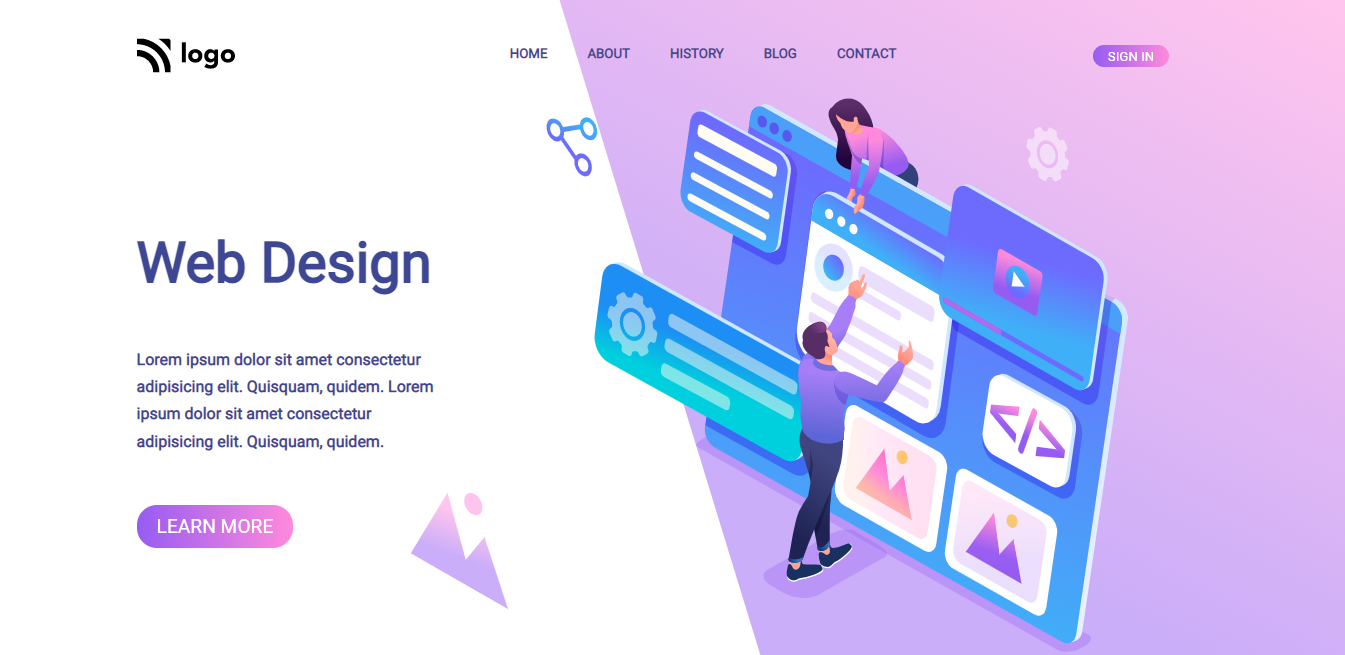
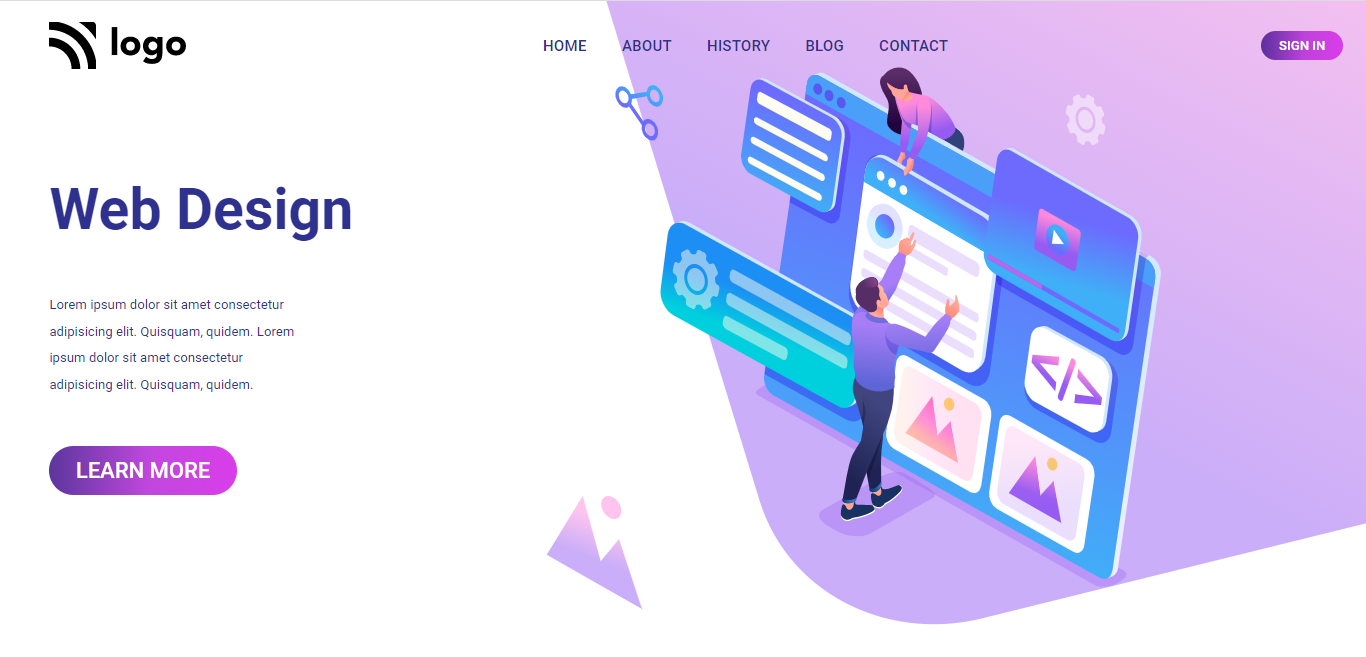
Modified

diff --git a/css/index.css b/css/index.css
@@ -1,106 +1,175 @@
-* {
-    padding: 0;
+*,
+*::before,
+*::after {
+    box-sizing: border-box;
+}
+
+body,
+h1,
+h2,
+h3,
+h4,
+h5,
+p,
+figure,
+picture {
     margin: 0;
-    font-family: 'Roboto';
+}
+
+h1,
+h2,
+h3,
+h4,
+h5,
+h6,
+p {
+    font-weight: 400;
+}
+
+html {
+    font-size: 62.5%;
 }
 
 body {
-    overflow: hidden;
+    font-family: "Roboto", sans-serif;
+    background-image: url(../images/backcover.svg);
+    background-repeat: no-repeat;
+    background-position: 100% 60%;
+    background-size: 60%;
+}
+
+.main-div {
+    max-width: 120rem;
+    margin: 0 auto;
 }
 
 .navbar {
     display: flex;
-    justify-content: space-evenly;
+    justify-content: space-between;
+    align-items: center;
+    padding-top: 1.8rem;
+    padding-left: 2.4rem;
 }
 
 .logo {
-    position: absolute;
-    left: 10%;
-    top: 6%;
+    width: 12.4rem;
 }
 
 .nav-items {
     display: flex;
-    position: absolute;
-    top: 7%;
-    color: #3e4794;
+    gap: 3.2rem;
+    list-style: none;
 }
 
-.nav-item {
-    margin-left: 40px;
+.nav-items a {
+    font-family: "Roboto", sans-serif;
+    font-size: 1.4rem;
+    font-weight: 500;
+    color: #2e318d;
+    text-decoration: none;
 }
 
 .signin-btn {
-    position: absolute;
-    padding: 3px 15px;
-    border-radius: 20px;
-    color: #fff;
     border: none;
-    top: 7%;
-    left: 80%;
-    background-image: linear-gradient(270deg, #ff8adc, #965cf2);
+    cursor: pointer;
+    background: linear-gradient( 90deg, rgba(109, 102, 226, 1) 0%, rgba(75, 34, 147, 0.9108018207282913) 0%, rgba(186, 54, 218, 0.9136029411764706) 53%, rgba(217, 58, 233, 0.9808298319327731) 100%);
+    border-radius: 100px;
+    padding: 0.6rem 1.6rem;
+    font-family: "Roboto", sans-serif;
+    font-size: 1.2rem;
+    font-weight: 500;
+    color: #fff;
 }
 
-.intro-section {
-    width: 100%;
-    float: left;
+.heading {
+    font-size: 5.2rem;
+    font-weight: 600;
+    color: #2e318d;
+    margin-top: 9.6rem;
 }
 
 .left-section {
-    width: 50%;
-    float: left;
-    position: absolute;
-    top: 35%;
-    left: 10%;
+    max-width: 50%;
+    padding-left: 2.4rem;
 }
 
-.left-section h1 {
-    font-size: 3.5rem;
-    margin-bottom: 50px;
-    color: #3e4794;
-}
-
-.left-section h4 {
-    width: 45%;
-    line-height: 1.7;
-    margin-bottom: 50px;
-    color: #3e4794;
+.text {
+    max-width: 40%;
+    line-height: 2;
+    font-size: 1.2rem;
+    color: #2e318d;
+    margin: 4.4rem 0 4.4rem 0;
 }
 
 .learn-more-btn {
-    padding: 10px 20px;
-    border-radius: 20px;
-    font-size: 1.2rem;
     border: none;
+    cursor: pointer;
+    background: linear-gradient( 90deg, rgba(109, 102, 226, 1) 0%, rgba(75, 34, 147, 0.9108018207282913) 0%, rgba(186, 54, 218, 0.9136029411764706) 53%, rgba(217, 58, 233, 0.9808298319327731) 100%);
+    padding: 1rem 2.4rem;
+    border-radius: 100px;
+    font-family: "Roboto", sans-serif;
+    font-size: 2rem;
+    font-weight: 500;
     color: #fff;
-    background-image: linear-gradient(270deg, #ff8adc, #965cf2);
 }
 
-.imgs-div {
-    width: 50%;
-    float: right;
-}
-
-.first {
+.vector-img {
+    width: 7%;
     position: absolute;
-    top: 75%;
-    left: 30%;
-}
-
-.second {
-    position: absolute;
-    top: 75%;
-    left: 34%;
-}
-
-.third {
-    position: absolute;
-    top: 15%;
     left: 40%;
 }
 
-.back img {
-    margin-left: 550px;
-    height: 120vh;
-    /* width: 100vw; */
+.vector-dot {
+    width: 1.5%;
+    position: absolute;
+    left: 44%;
+}
+
+.intro-img {
+    position: absolute;
+    top: 10%;
+    right: 15%;
+    width: 40%;
+    z-index: -100;
+}
+
+
+/* Responsive Design */
+
+@media screen and (max-width: 58em) {
+    html {
+        font-size: 50%;
+    }
+}
+
+@media screen and (max-width: 42em) {
+    html {
+        font-size: 40%;
+    }
+}
+
+@media screen and (max-width: 34em) {
+    html {
+        font-size: 50%;
+    }
+    body {
+        background-position: 100% 0%;
+    }
+    .left-section {
+        max-width: 100%;
+        display: flex;
+        flex-direction: column;
+        justify-content: center;
+        align-items: center;
+        text-align: center;
+    }
+    .nav-items {
+        display: none;
+    }
+}
+
+@media screen and (max-width: 29em) {
+    html {
+        font-size: 40%;
+    }
 }

diff --git a/index.html b/index.html
@@ -5,52 +5,47 @@
     <meta charset="UTF-8" />
     <meta http-equiv="X-UA-Compatible" content="IE=edge" />
     <meta name="viewport" content="width=device-width, initial-scale=1.0" />
+
+
+    <link rel="preconnect" href="https://fonts.googleapis.com">
+    <link rel="preconnect" href="https://fonts.gstatic.com" crossorigin>
+    <link href="https://fonts.googleapis.com/css2?family=Roboto:wght@400;500;700&display=swap" rel="stylesheet">
+
+
     <link rel="stylesheet" href="css/index.css" />
-    <link rel="preconnect" href="https://fonts.googleapis.com" />
-    <link rel="preconnect" href="https://fonts.gstatic.com" crossorigin />
-    <link href="https://fonts.googleapis.com/css2?family=Roboto&display=swap" rel="stylesheet" />
+
     <title>Design Landing Page</title>
 </head>
 
 <body>
     <div class="main-div">
         <nav class="navbar">
-            <div class="logo">
-                <img src="./images/logo.svg" alt="logo" width="70%" />
+            <img src="./images/logo.svg" alt="logo" class="logo" />
+            <ul class="nav-items">
+                <li class="nav-item"><a href="#">HOME</a></li>
+                <li class="nav-item"><a href="#">ABOUT</a></li>
+                <li class="nav-item"><a href="#">HISTORY</a></li>
+                <li class="nav-item"><a href="#">BLOG</a></li>
+                <li class="nav-item"><a href="#">CONTACT</a></li>
+            </ul>
+            <div class="singin-btn-div">
+                <button class="signin-btn">SIGN IN</button>
             </div>
-            <div class="nav-items">
-                <h5 class="nav-item">HOME</h5>
-                <h5 class="nav-item">ABOUT</h5>
-                <h5 class="nav-item">HISTORY</h5>
-                <h5 class="nav-item">BLOG</h5>
-                <h5 class="nav-item">CONTACT</h5>
-            </div>
-            <button class="signin-btn">SIGN IN</button>
         </nav>
         <div class="intro-section">
             <div class="left-section">
-                <h1>Web Design</h1>
-                <h4>
+                <h1 class="heading">Web Design</h1>
+                <h4 class="text">
                     Lorem ipsum dolor sit amet consectetur adipisicing elit. Quisquam, quidem. Lorem ipsum dolor sit amet consectetur adipisicing elit. Quisquam, quidem.
                 </h4>
                 <button class="learn-more-btn">LEARN MORE</button>
             </div>
             <div class="imgs-div">
-                <div class="first">
-                    <img src="./images/vector.svg" alt="vector-img" class="vector-img" />
-
-                </div>
-                <div class="second">
-                    <img src="./images/vector-dot.svg" alt="vector-dot" class="vector-dot" />
-                </div>
-                <div class="third">
-                    <img src="./images/intro-img.svg" alt="intro-img" width="71%" />
-                </div>
+                <img src="./images/vector.svg" alt="vector-img" class="vector-img" />
+                <img src="./images/vector-dot.svg" alt="vector-dot" class="vector-dot" />
+                <img src="./images/intro-img.svg" alt="intro-img" class="intro-img" />
             </div>
         </div>
-    </div>
-    <div class="back">
-        <img src="./images/backcover.svg" alt="" width="59%">
     </div>
 </body>
 
